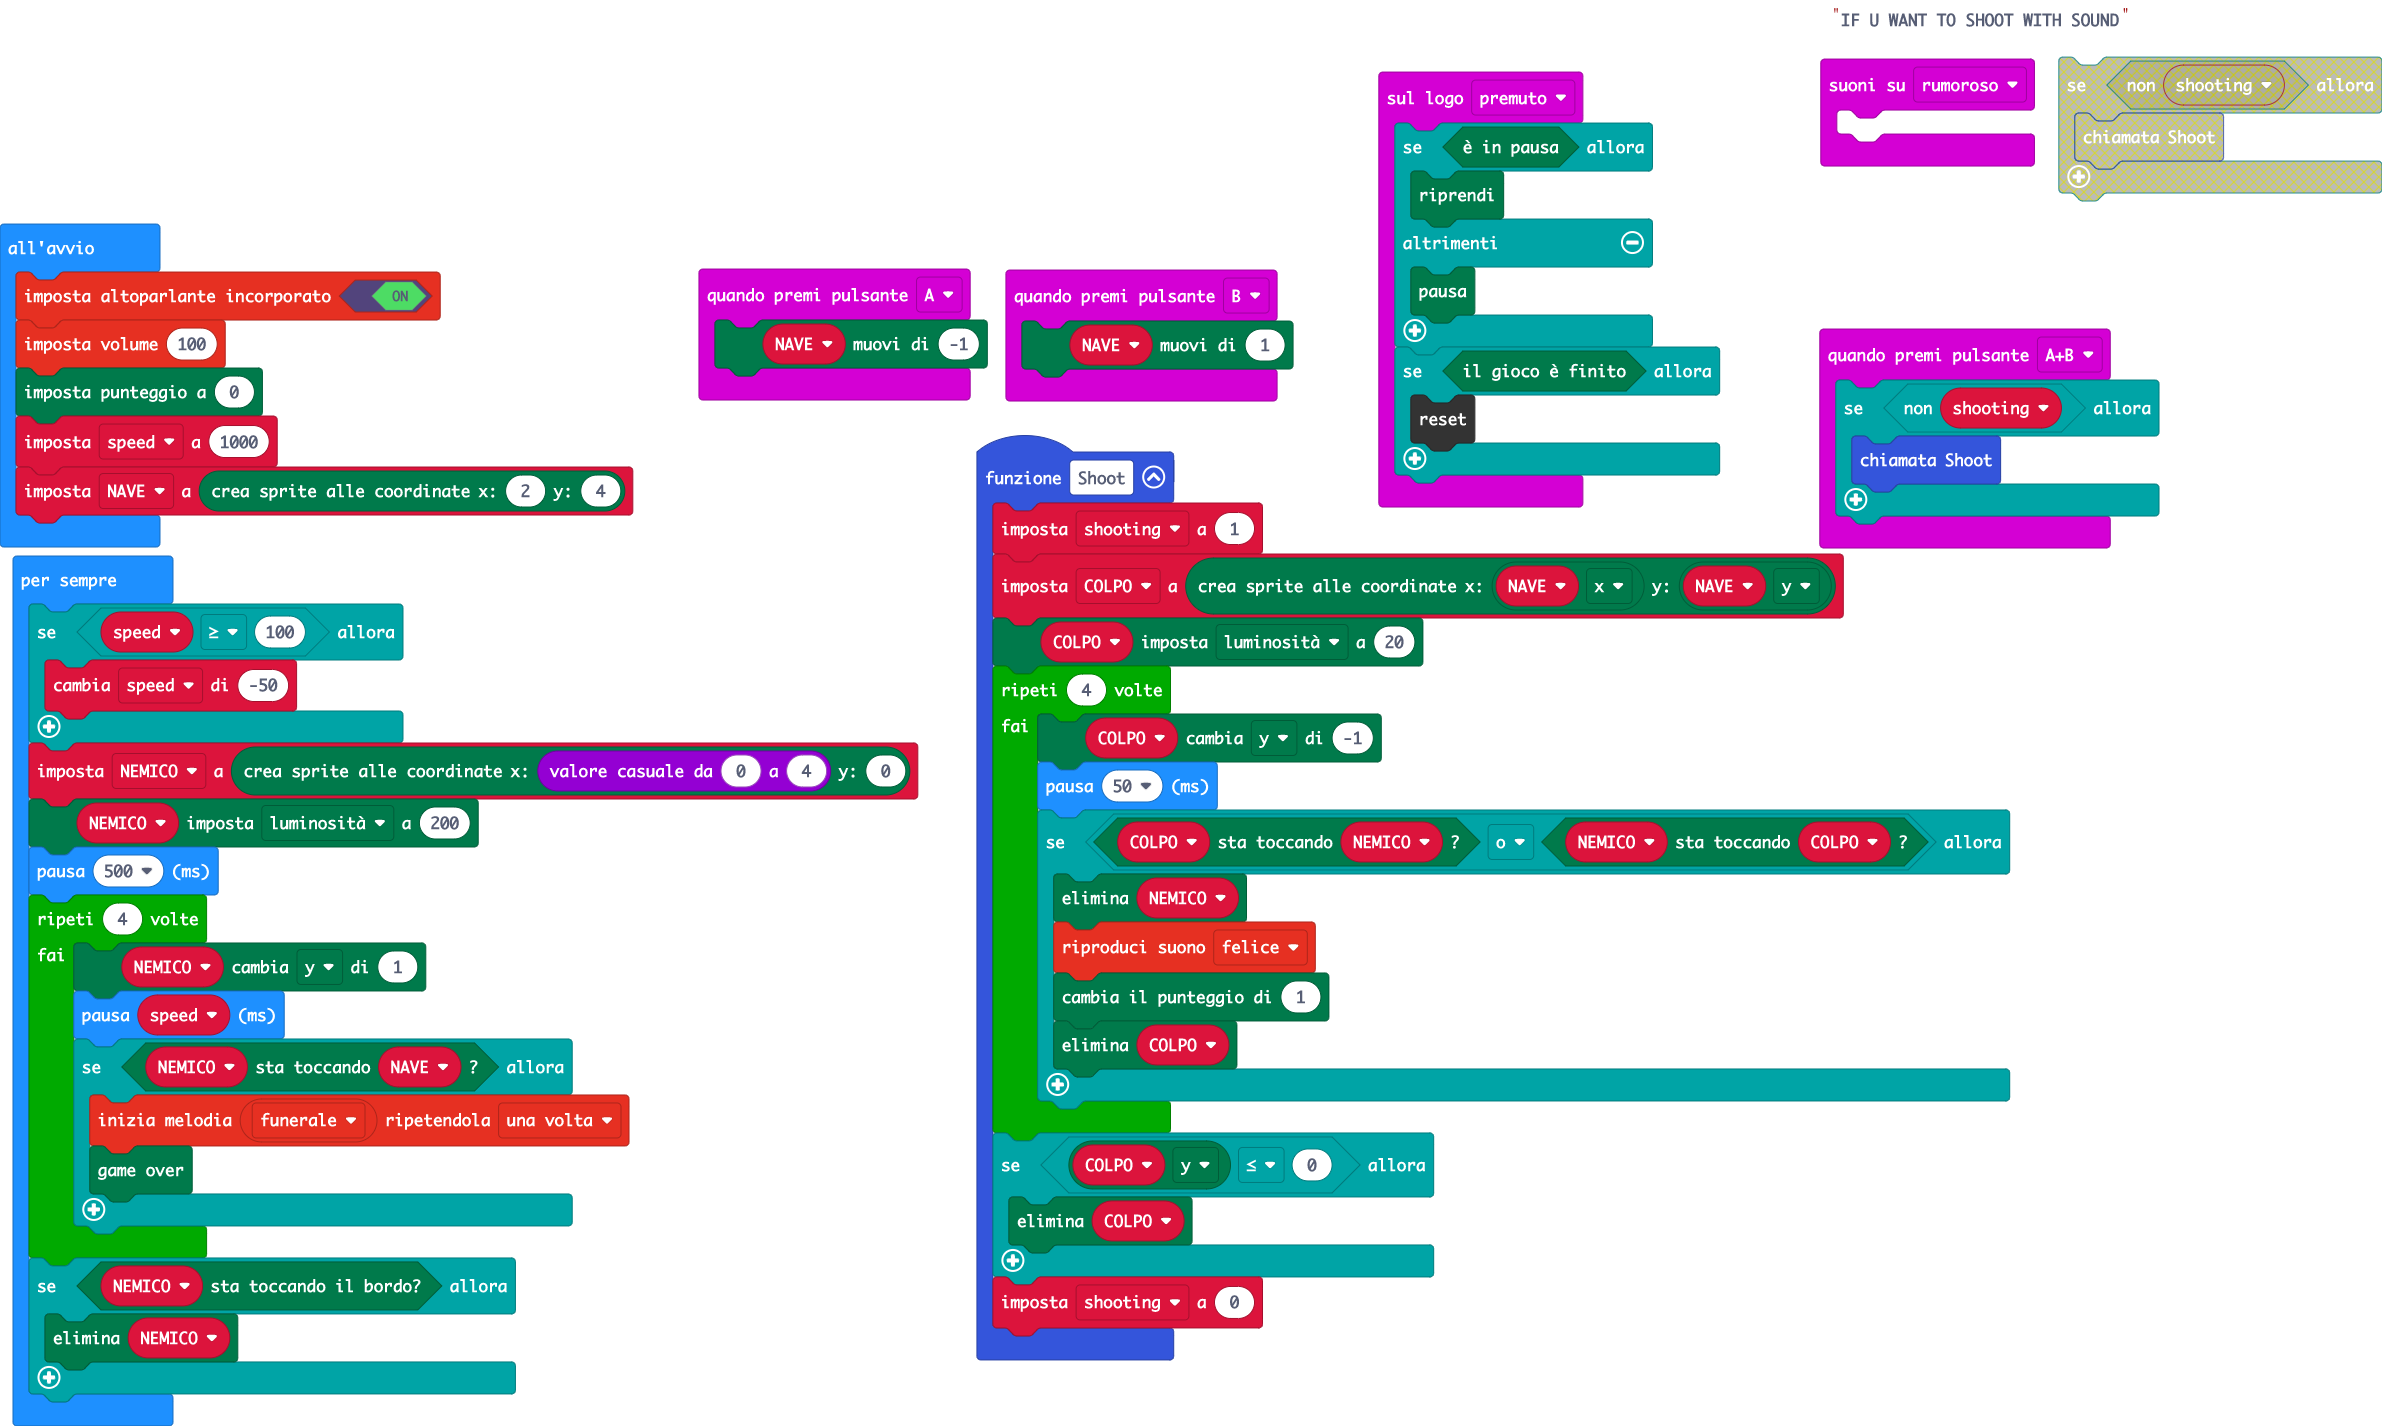
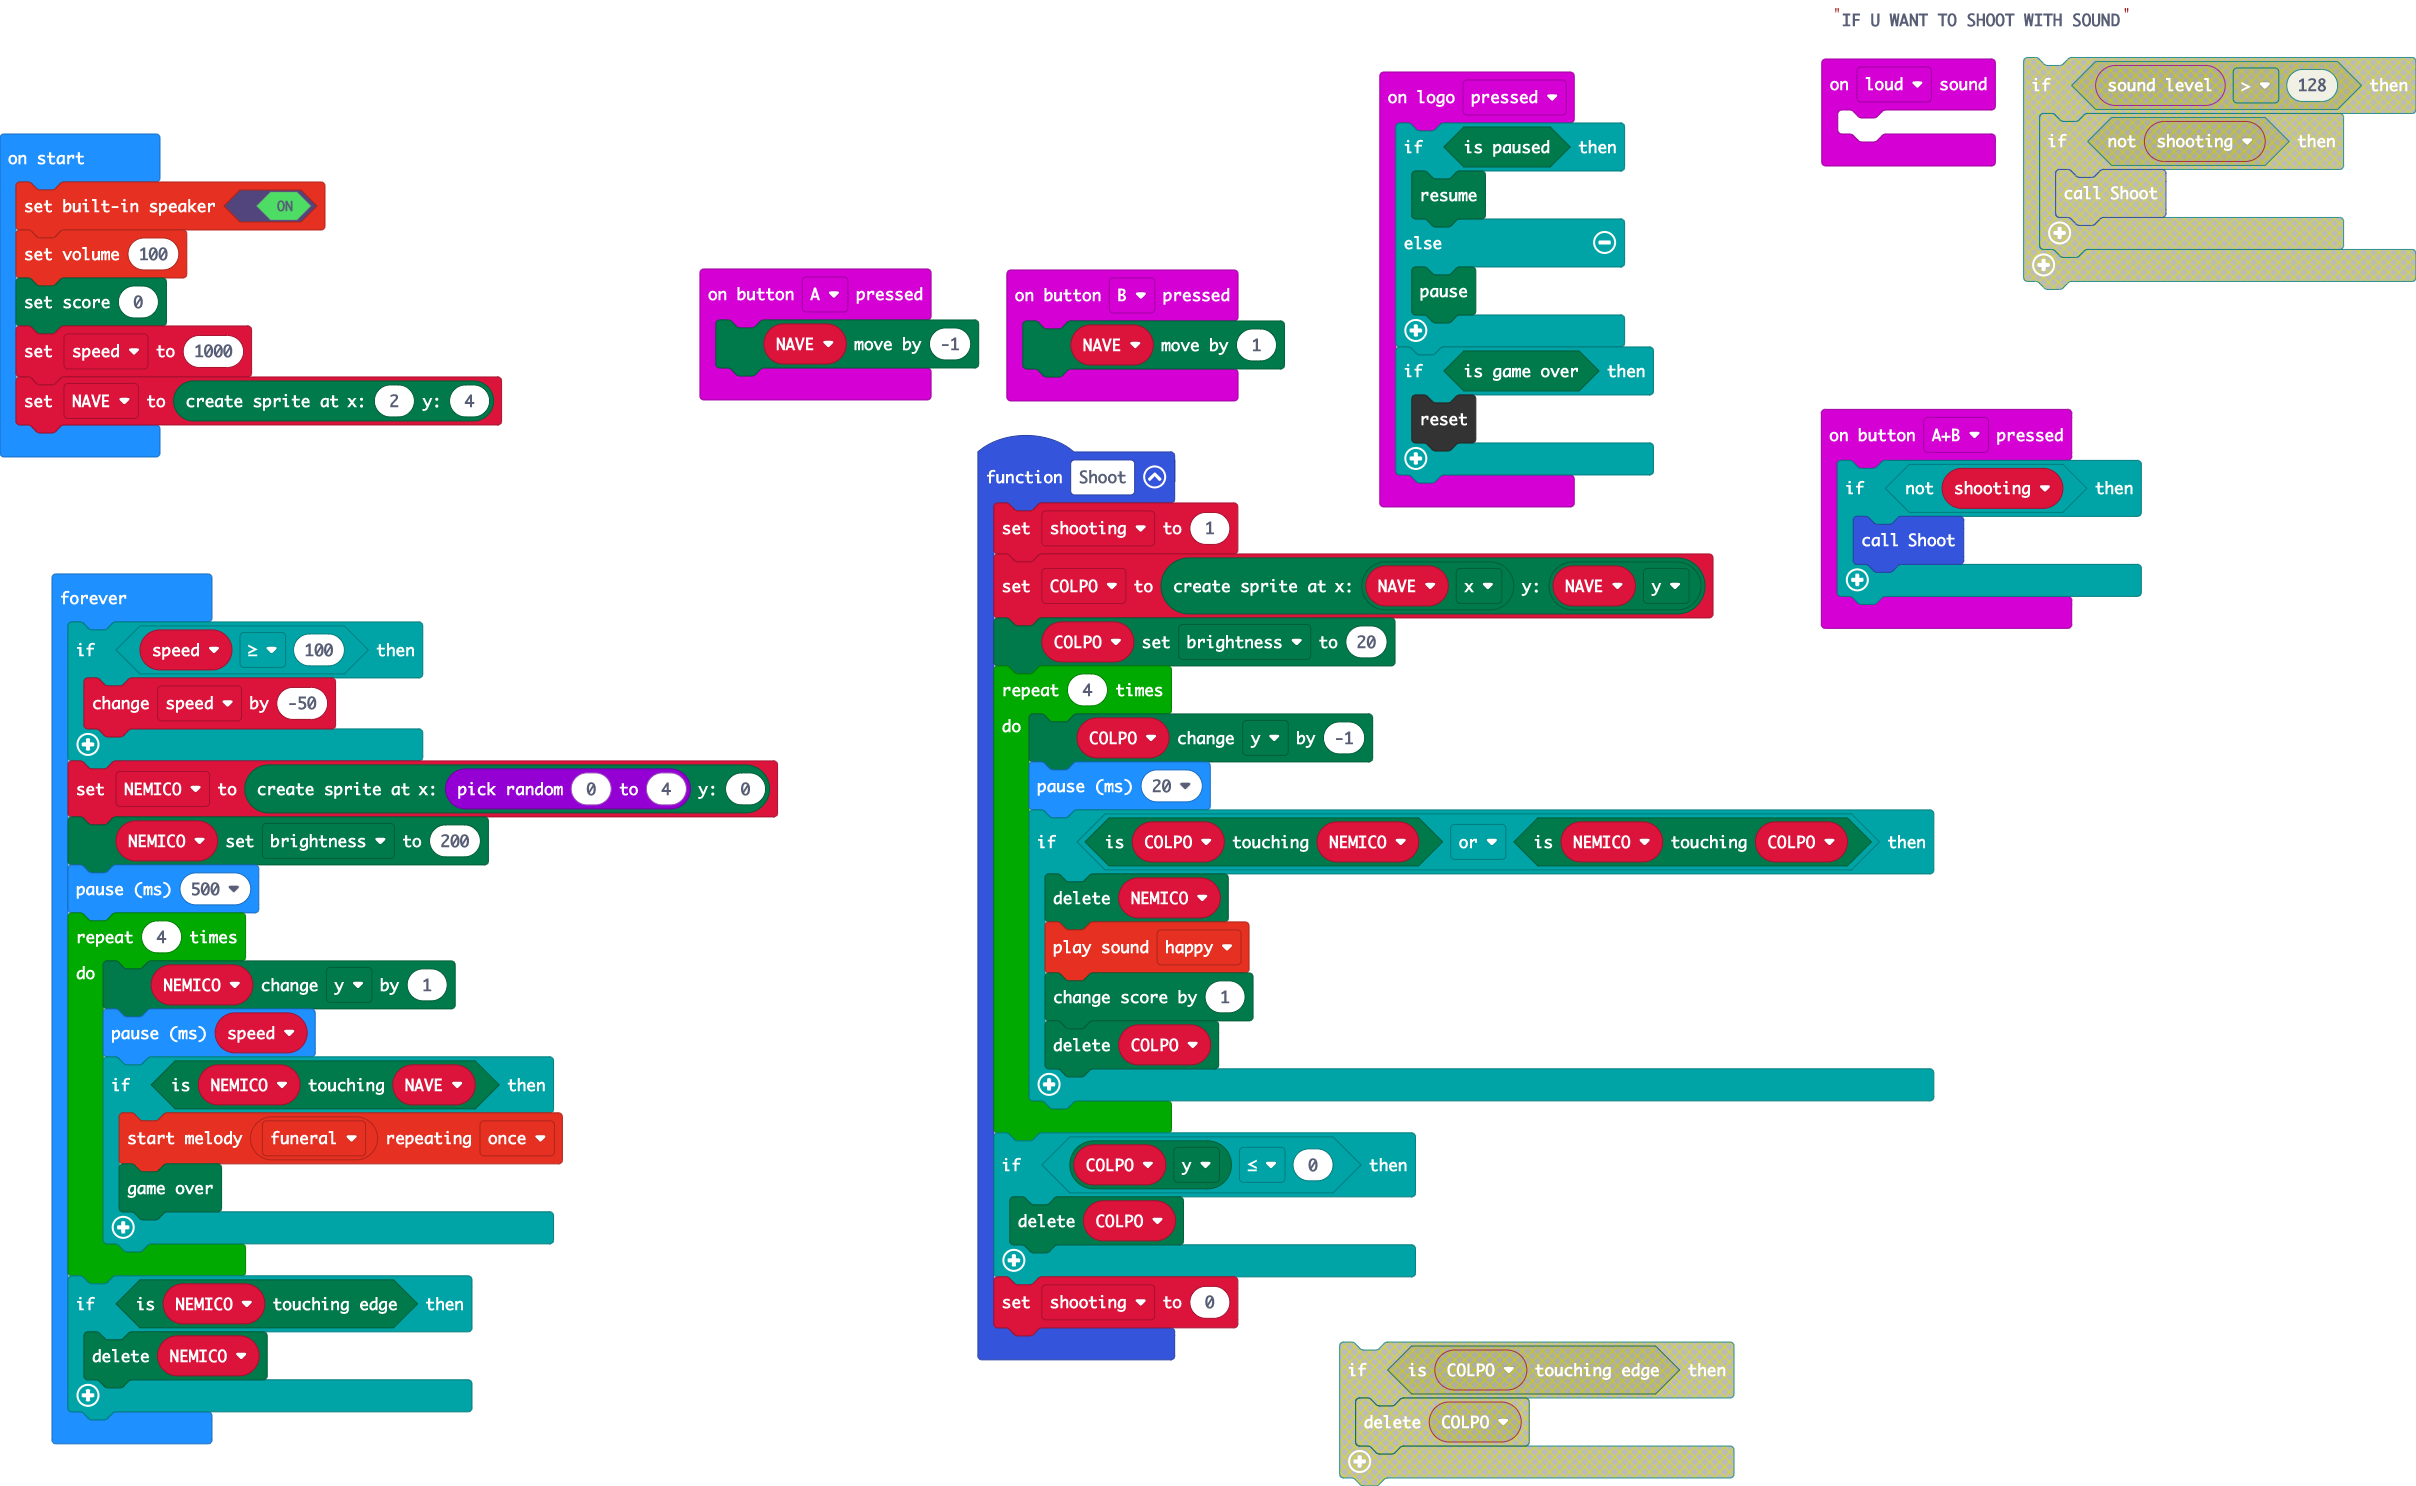
Update main.blocks, main.ts

diff --git a/main.ts b/main.ts
@@ -1,6 +1,3 @@
-input.onSound(DetectedSound.Loud, function () {
-	
-})
 input.onButtonPressed(Button.A, function () {
     NAVE.move(-1)
 })
@@ -10,7 +7,7 @@ function Shoot () {
     COLPO.set(LedSpriteProperty.Brightness, 20)
     for (let index = 0; index < 4; index++) {
         COLPO.change(LedSpriteProperty.Y, -1)
-        basic.pause(50)
+        basic.pause(20)
         if (COLPO.isTouching(NEMICO) || NEMICO.isTouching(COLPO)) {
             NEMICO.delete()
             soundExpression.happy.play()
@@ -23,6 +20,9 @@ function Shoot () {
     }
     shooting = 0
 }
+input.onSound(DetectedSound.Loud, function () {
+	
+})
 input.onButtonPressed(Button.AB, function () {
     if (!(shooting)) {
         Shoot()
